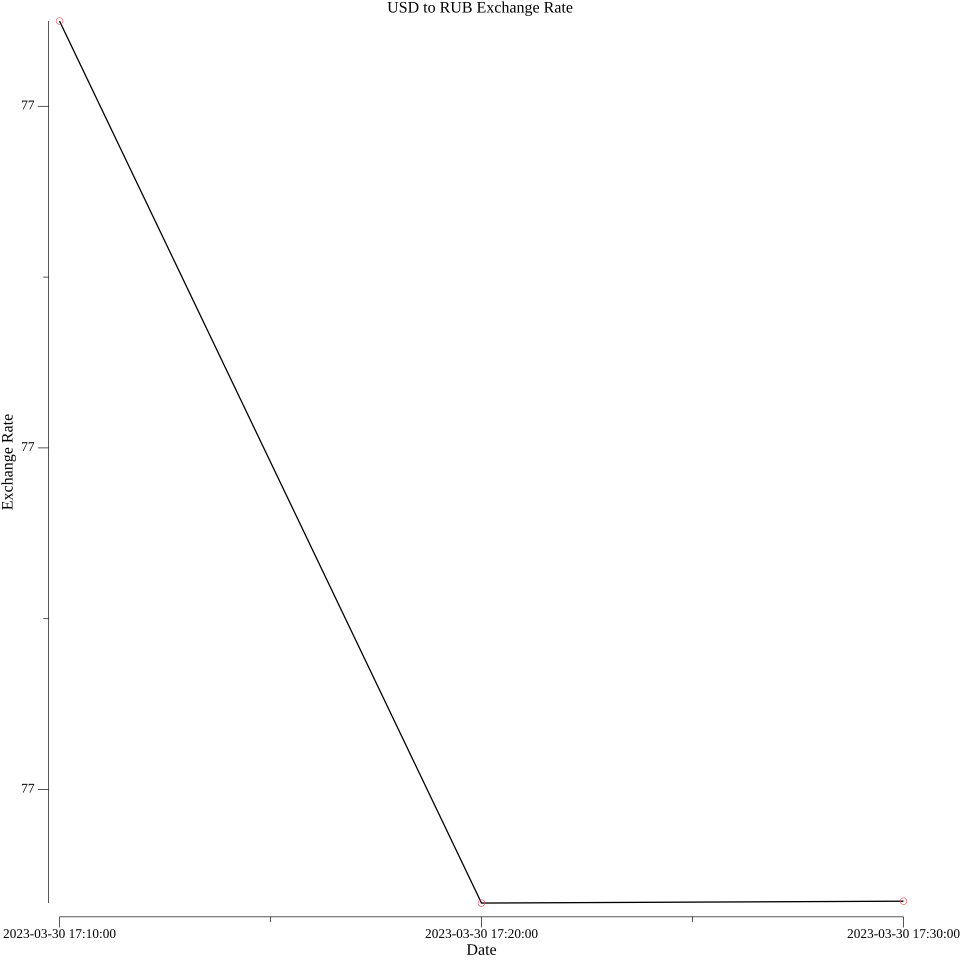
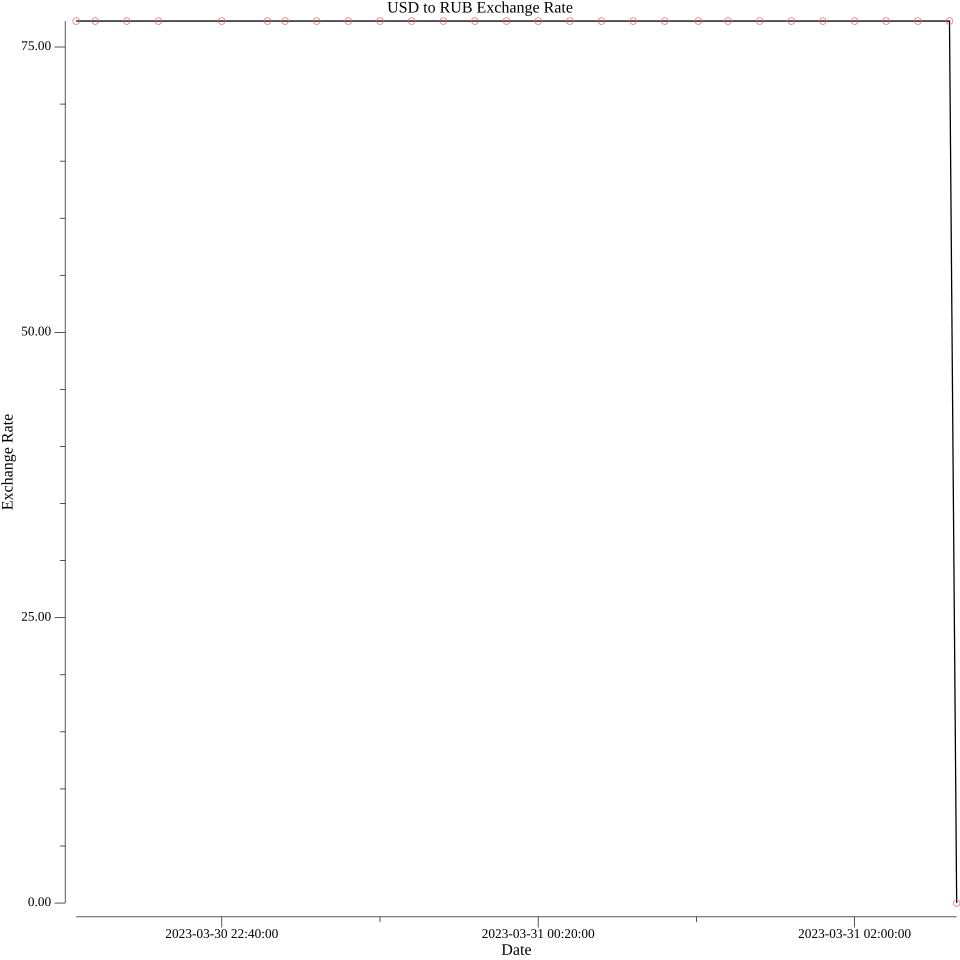
add data in db

diff --git a/API.go b/API.go
@@ -76,6 +76,10 @@ func main() {
 				log.Println(err)
 				goto rep
 			}
+			if rate == 0 {
+				log.Println("Всё, кина не будет, запросы кончились")
+				break
+			}
 			log.Println("API read successfully")
 			Curr, err := saveExchangeRate(rate)
 			if err != nil {
